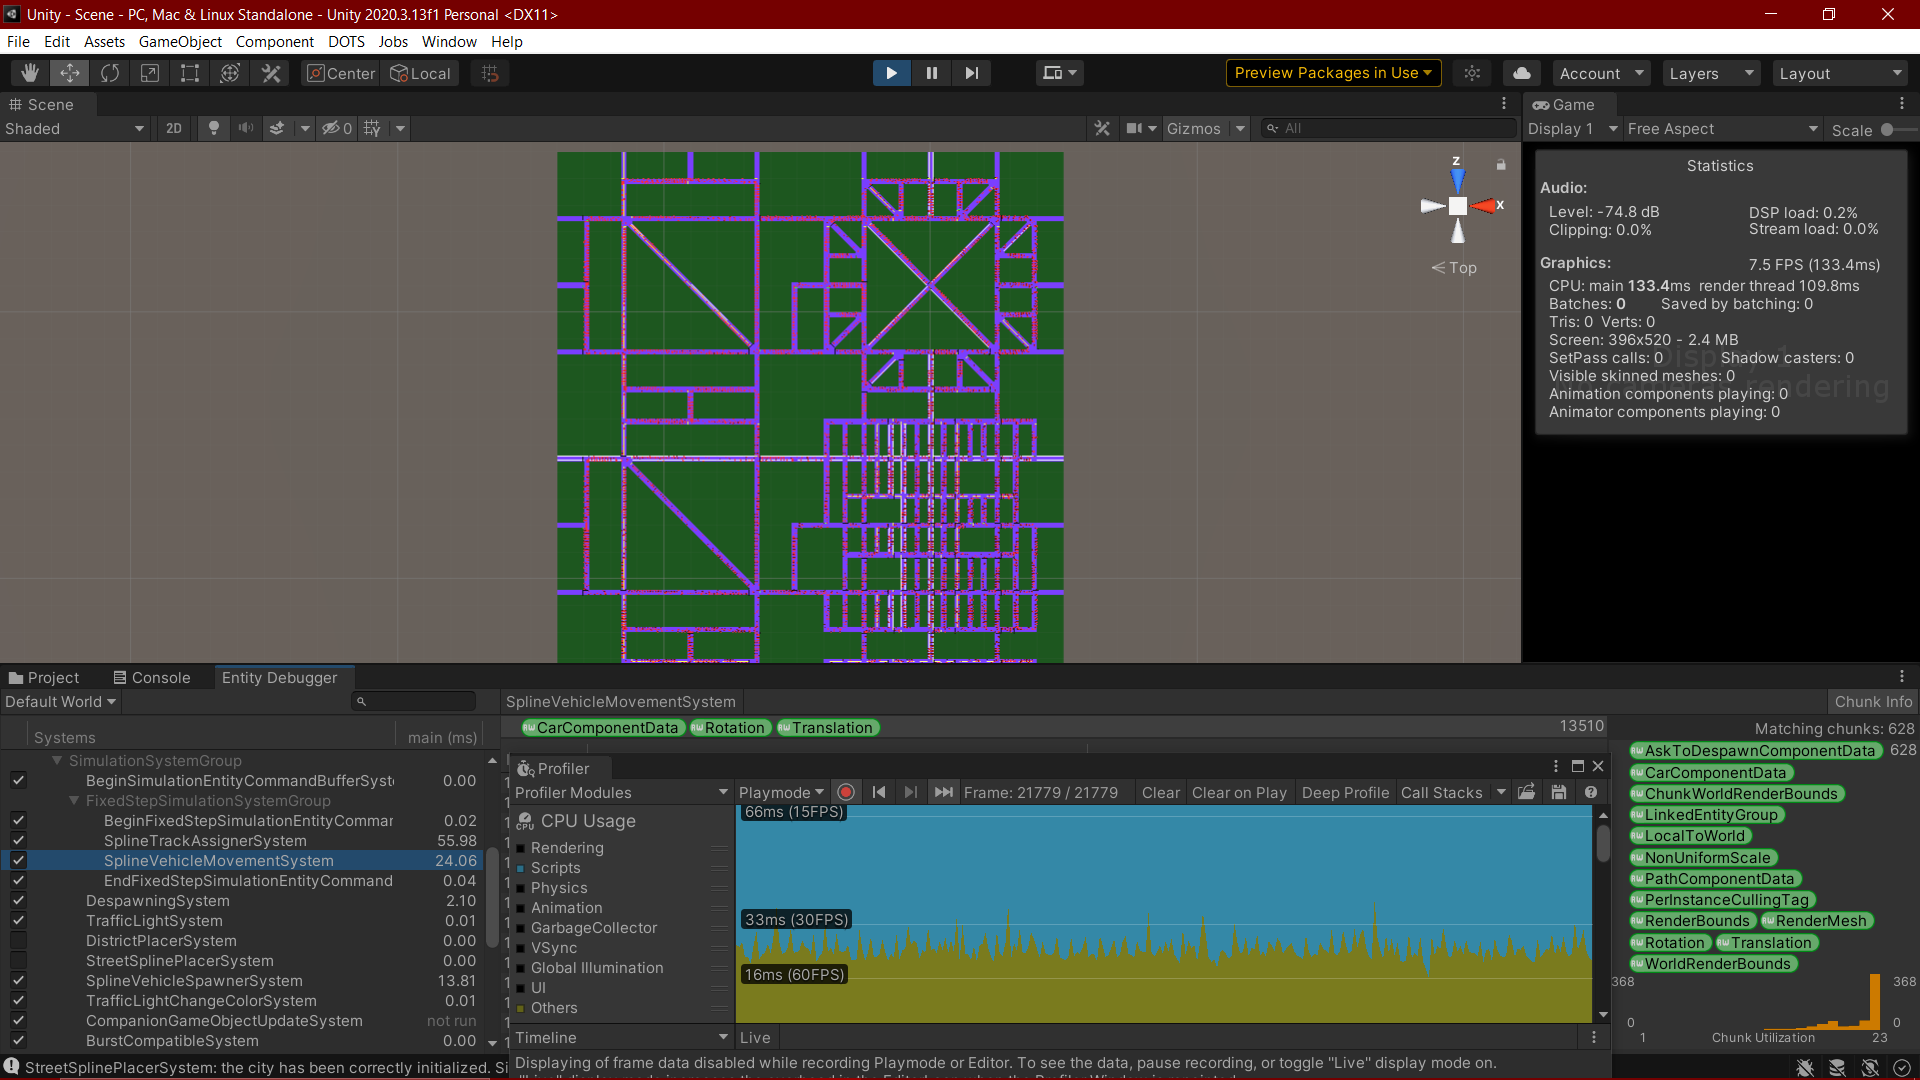
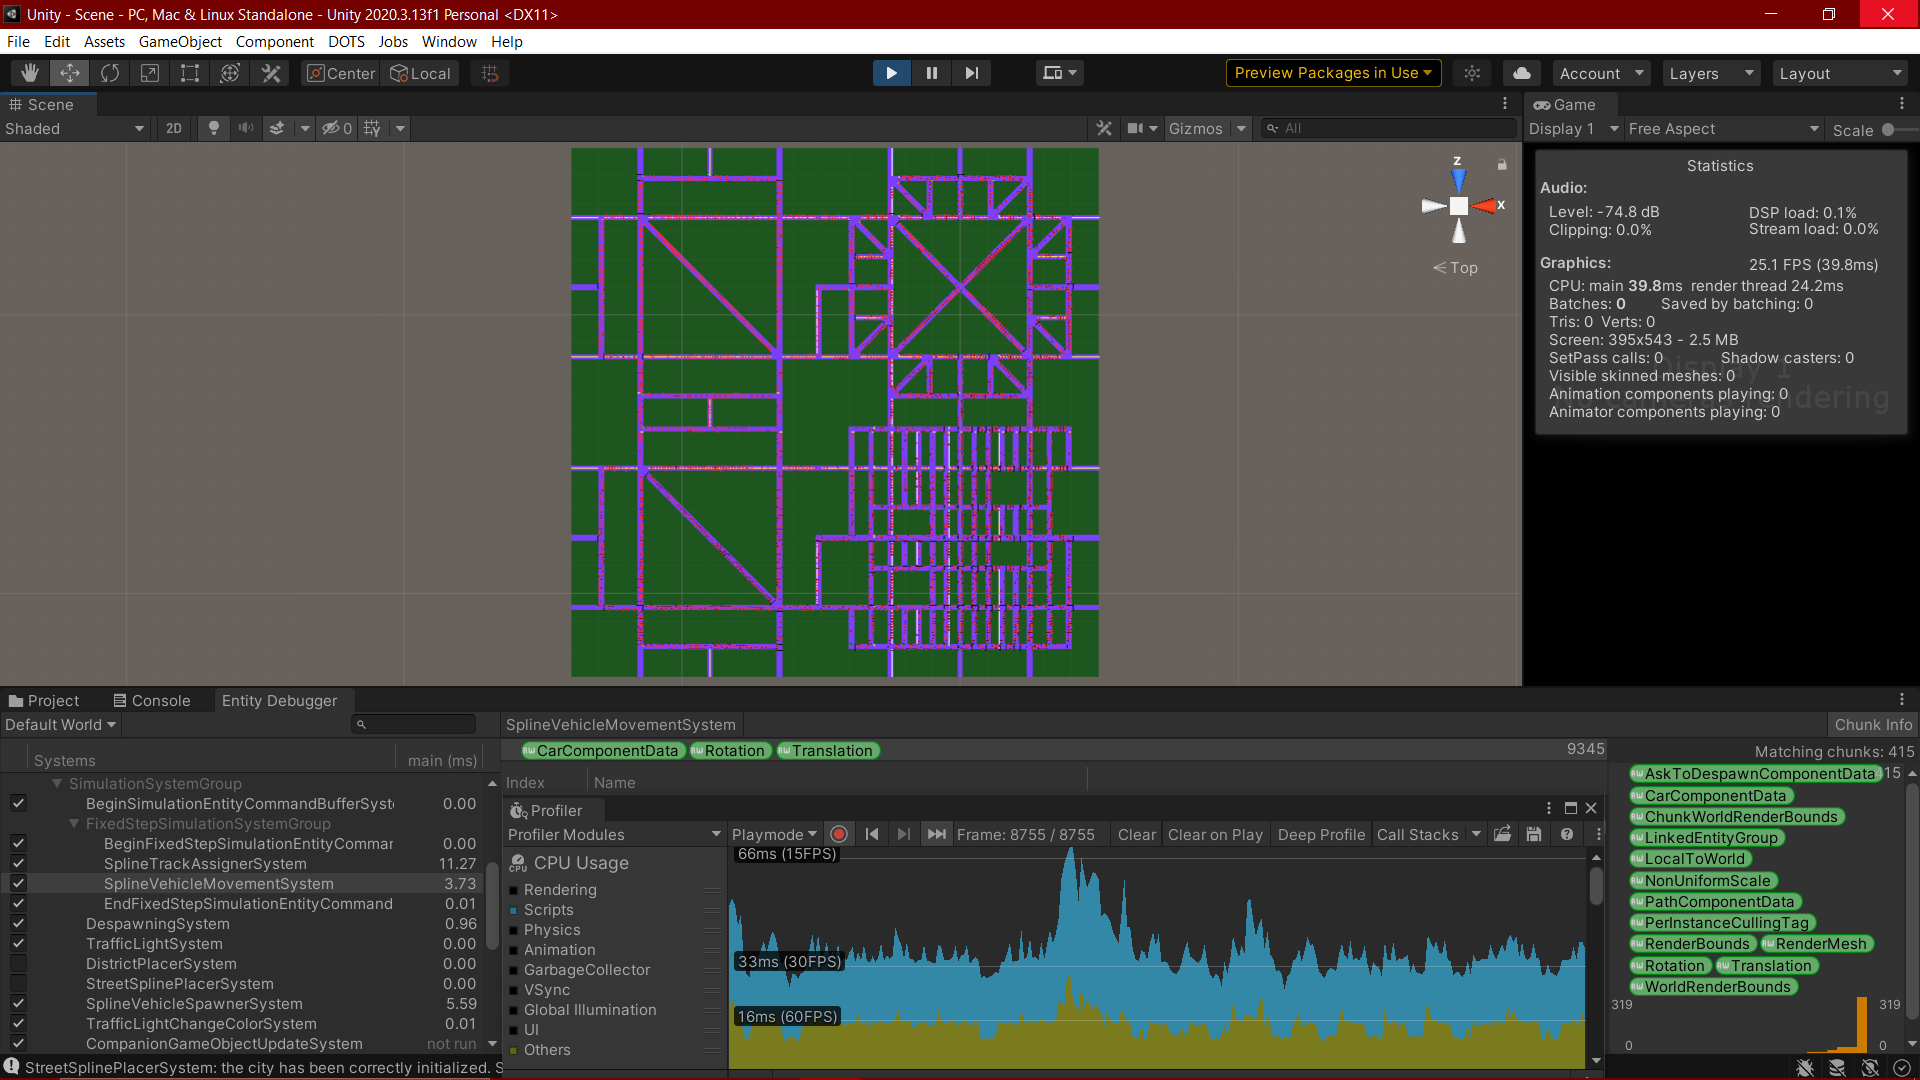
Update table 1 in README

diff --git a/README.md b/README.md
@@ -101,11 +101,11 @@ Measures:
 | Simulation id |  | Districts  |  | # cars | # entities | # FPS | Total delay (ms) | SVMS delay (ms) | STAS delay (ms) |
 | - |-------------|--------|------------|------| - | - | - | - | - |
 |  | # low-density | # medium-density | # high-density | | | | | | |
-| 1 | 1 | 0 | 0 | 1432 | 44178 | 67.5 | 14.8 | 0.43 | 0.74 |
-| 2 | 1 | 1 | 0 | 4001 | 63834 | 39.6 | 25.2 | 1.90 | 6.35 |
-| 3 | 2 | 1 | 1 | 8463 | 108848 | 15.2 | 65.6 | 5.22 | 19.59 |
-| 4 | 2 | 2 | 2 | 14795 | 164485 | 6.6 | 151 | 33.14 | 76.28 |
-| 5 | 3 | 3 | 2 | 17674 | 192290 | 3.3 | 302.6 | 57.72 | 174.26 |
+| 1 | 1 | 0 | 0 | 1410 | 44184 | 99.6 | 10.0 | 0.18 | 0.61 |
+| 2 | 1 | 1 | 0 | 4361 | 64075  | 63.2 | 15.8 | 0.45 | 1.59 |
+| 3 | 2 | 1 | 1 | 9345 | 109862 | 25.1 | 39.8 | 3.73 | 11.27 |
+| 4 | 2 | 2 | 2 | 15122 | 165129 | 14.9 | 67.0 | 7.21 | 21.48 |
+| 5 | 3 | 3 | 2 | 19204 | 193847 | 9.2 | 108.4 | 15.30 | 46.28 |
 
 The following figure shows the screenshot of the measures recorded for simulation with id 3:
 
